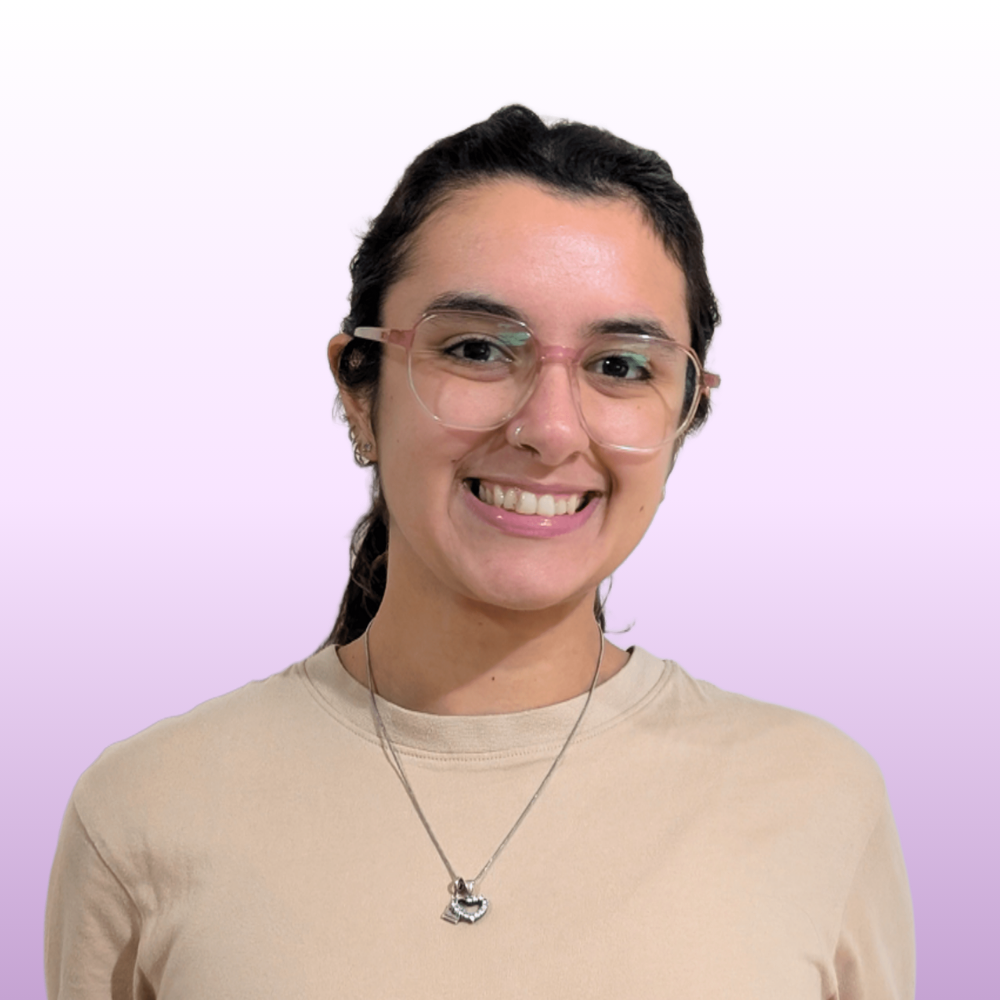
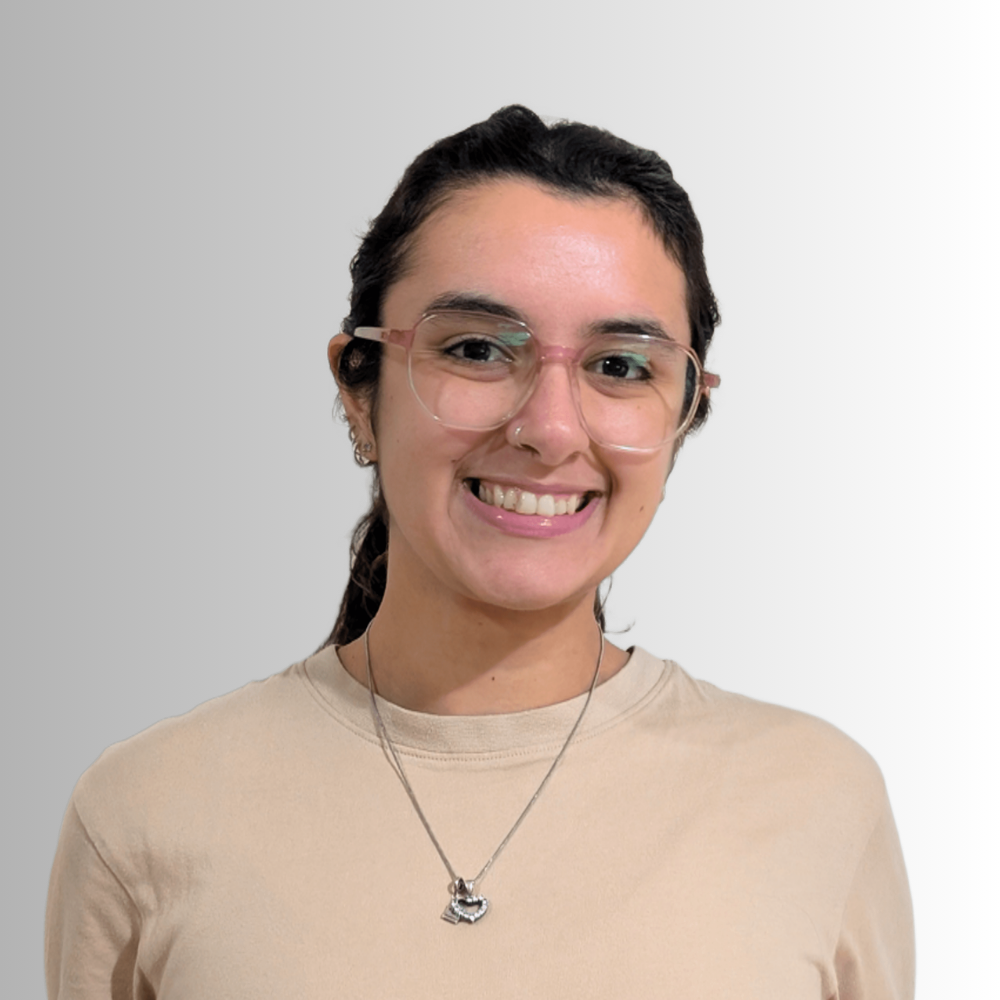
new profile picture background + fixed title badge

diff --git a/index.html b/index.html
@@ -168,27 +168,35 @@
       text-align: center;
       border-top: 5px solid #cc7351;
     }
+    /* Contenedor relativo para posicionar elementos encima */
+    .profile-img-container {
+      position: relative;
+      display: inline-block;
+    }
     .about-image {
-      width: 150px;
-      height: 150px;
+      width: 240px;
+      height: 240px;
       object-fit: cover;
       background-color: #eee;
       border: 4px solid #fcefe9;
       box-shadow: 0 4px 10px rgba(0, 0, 0, 0.05);
     }
+    /* Badge posicionado absolutamente en la base de la imagen */
     .badge-title {
-      display: inline-block;
+      position: absolute;
+      bottom: -15px; /* Lo empuja hacia abajo para que quede justo a la mitad */
+      left: 50%;
+      transform: translateX(-50%); /* Lo centra perfectamente horizontal */
+      white-space: nowrap; /* Evita que el texto se quiebre en múltiples líneas */
       background: linear-gradient(135deg, #df9e38, #ecbe57);
       color: #ffffff;
       padding: 0.4rem 1.5rem;
       border-radius: 20px;
       font-size: 0.95rem;
       font-weight: 600;
-      margin-top: -25px; /* Eleva el badge para superponerlo a la imagen */
-      margin-bottom: 1.5rem;
       letter-spacing: 0.5px;
-      position: relative; /* Habilita el contexto de apilamiento */
-      z-index: 2; /* Garantiza que el badge quede por encima de la foto */
+      box-shadow: 0 4px 10px rgba(0, 0, 0, 0.15);
+      z-index: 2;
     }
     .profile-card h2 {
       font-size: 1.5rem;
@@ -516,12 +524,14 @@
           </div>
         </main>
 
-        <!-- Right Column: Profile Card (Fichero Alineado y Centrado) -->
+        <!-- Right Column: Profile Card -->
         <aside class="profile-card">
-          <div class="mb-4">
+          <!-- Contenedor relativo para agrupar la foto y el badge superpuesto -->
+          <div class="profile-img-container mb-4">
             <img src="images/about/1.png" alt="Fiorella Trigo" class="about-image rounded-circle img-fluid">
+            <div class="badge-title">Data Scientist</div>
           </div>
-          <div class="badge-title">Data Scientist</div>
+          
           <h2>Fiorella Trigo</h2>
           
           <div class="info-list">
